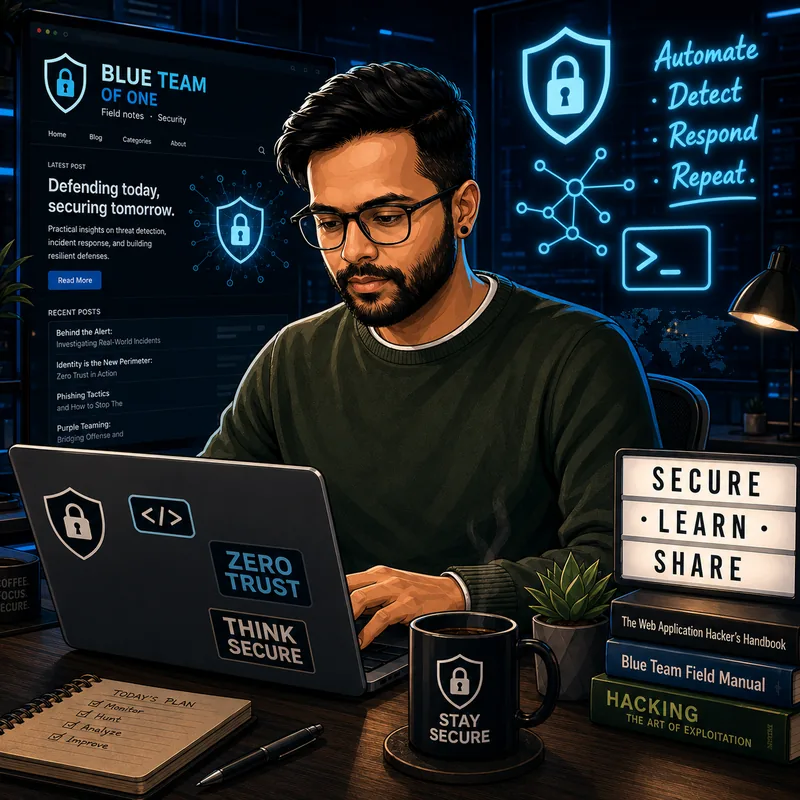
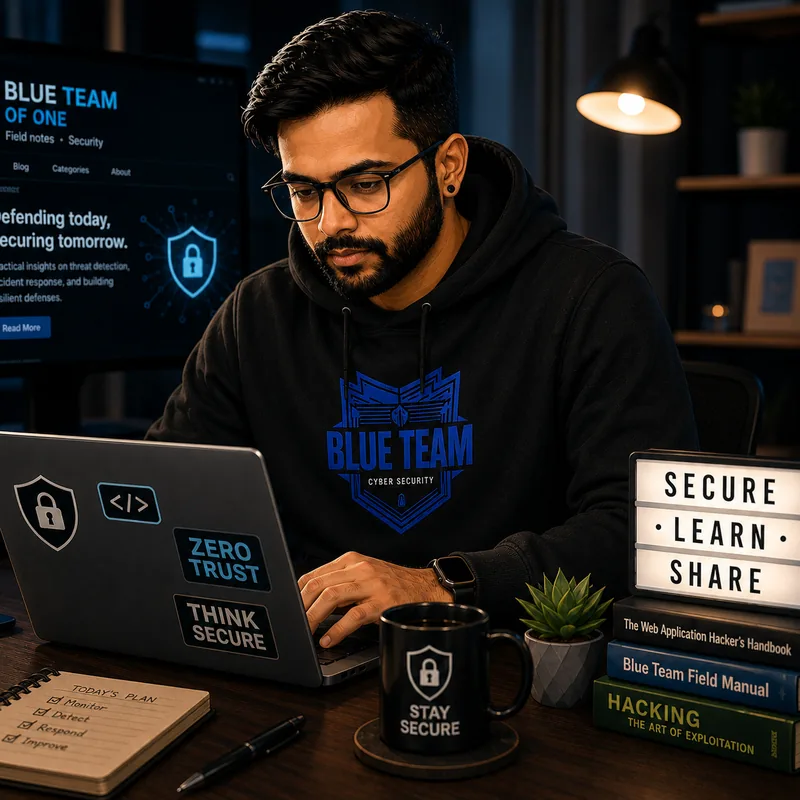
Pic

diff --git a/index.html b/index.html
@@ -45,8 +45,8 @@
       </div>
       <div class="home-hero-art">
         <picture>
-          <source srcset="/assets/img/hero.webp?v=3" type="image/webp">
-          <img src="/assets/img/hero.png?v=3" alt="Blue Team of One — security field notes" width="800" height="800" loading="eager">
+          <source srcset="/assets/img/hero.webp?v=4" type="image/webp">
+          <img src="/assets/img/hero.png?v=4" alt="Blue Team of One — security field notes" width="800" height="800" loading="eager">
         </picture>
       </div>
     </div>
